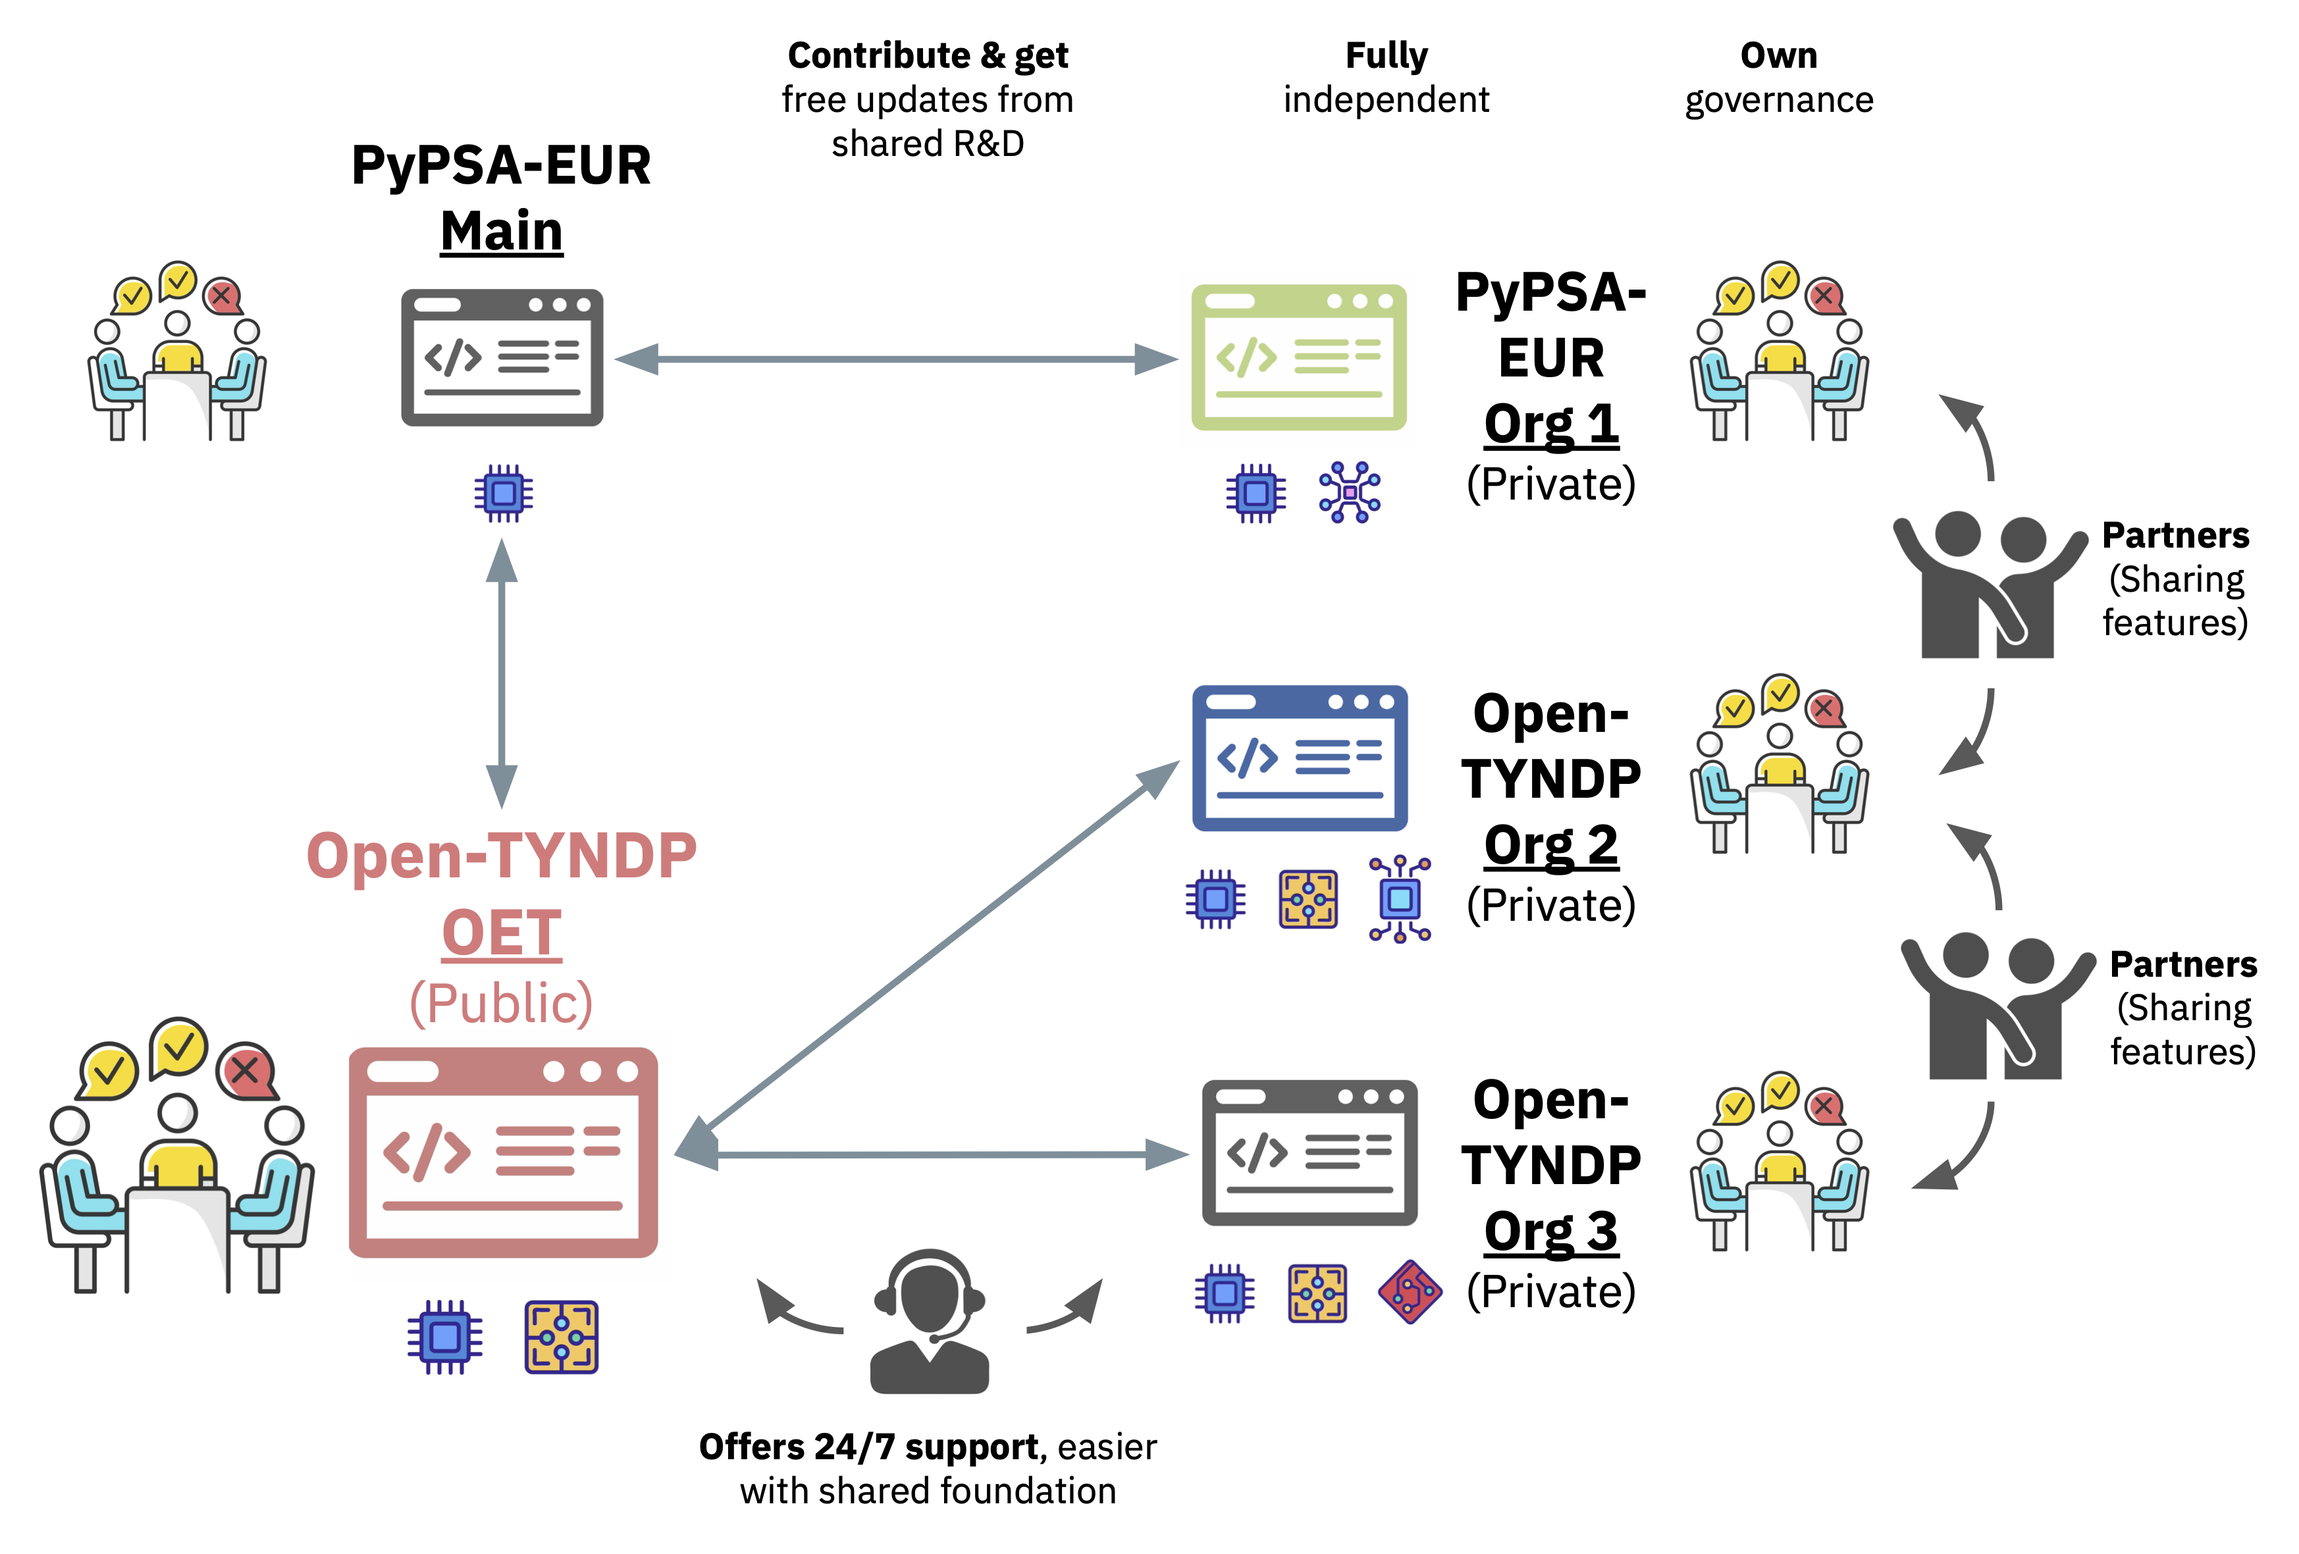
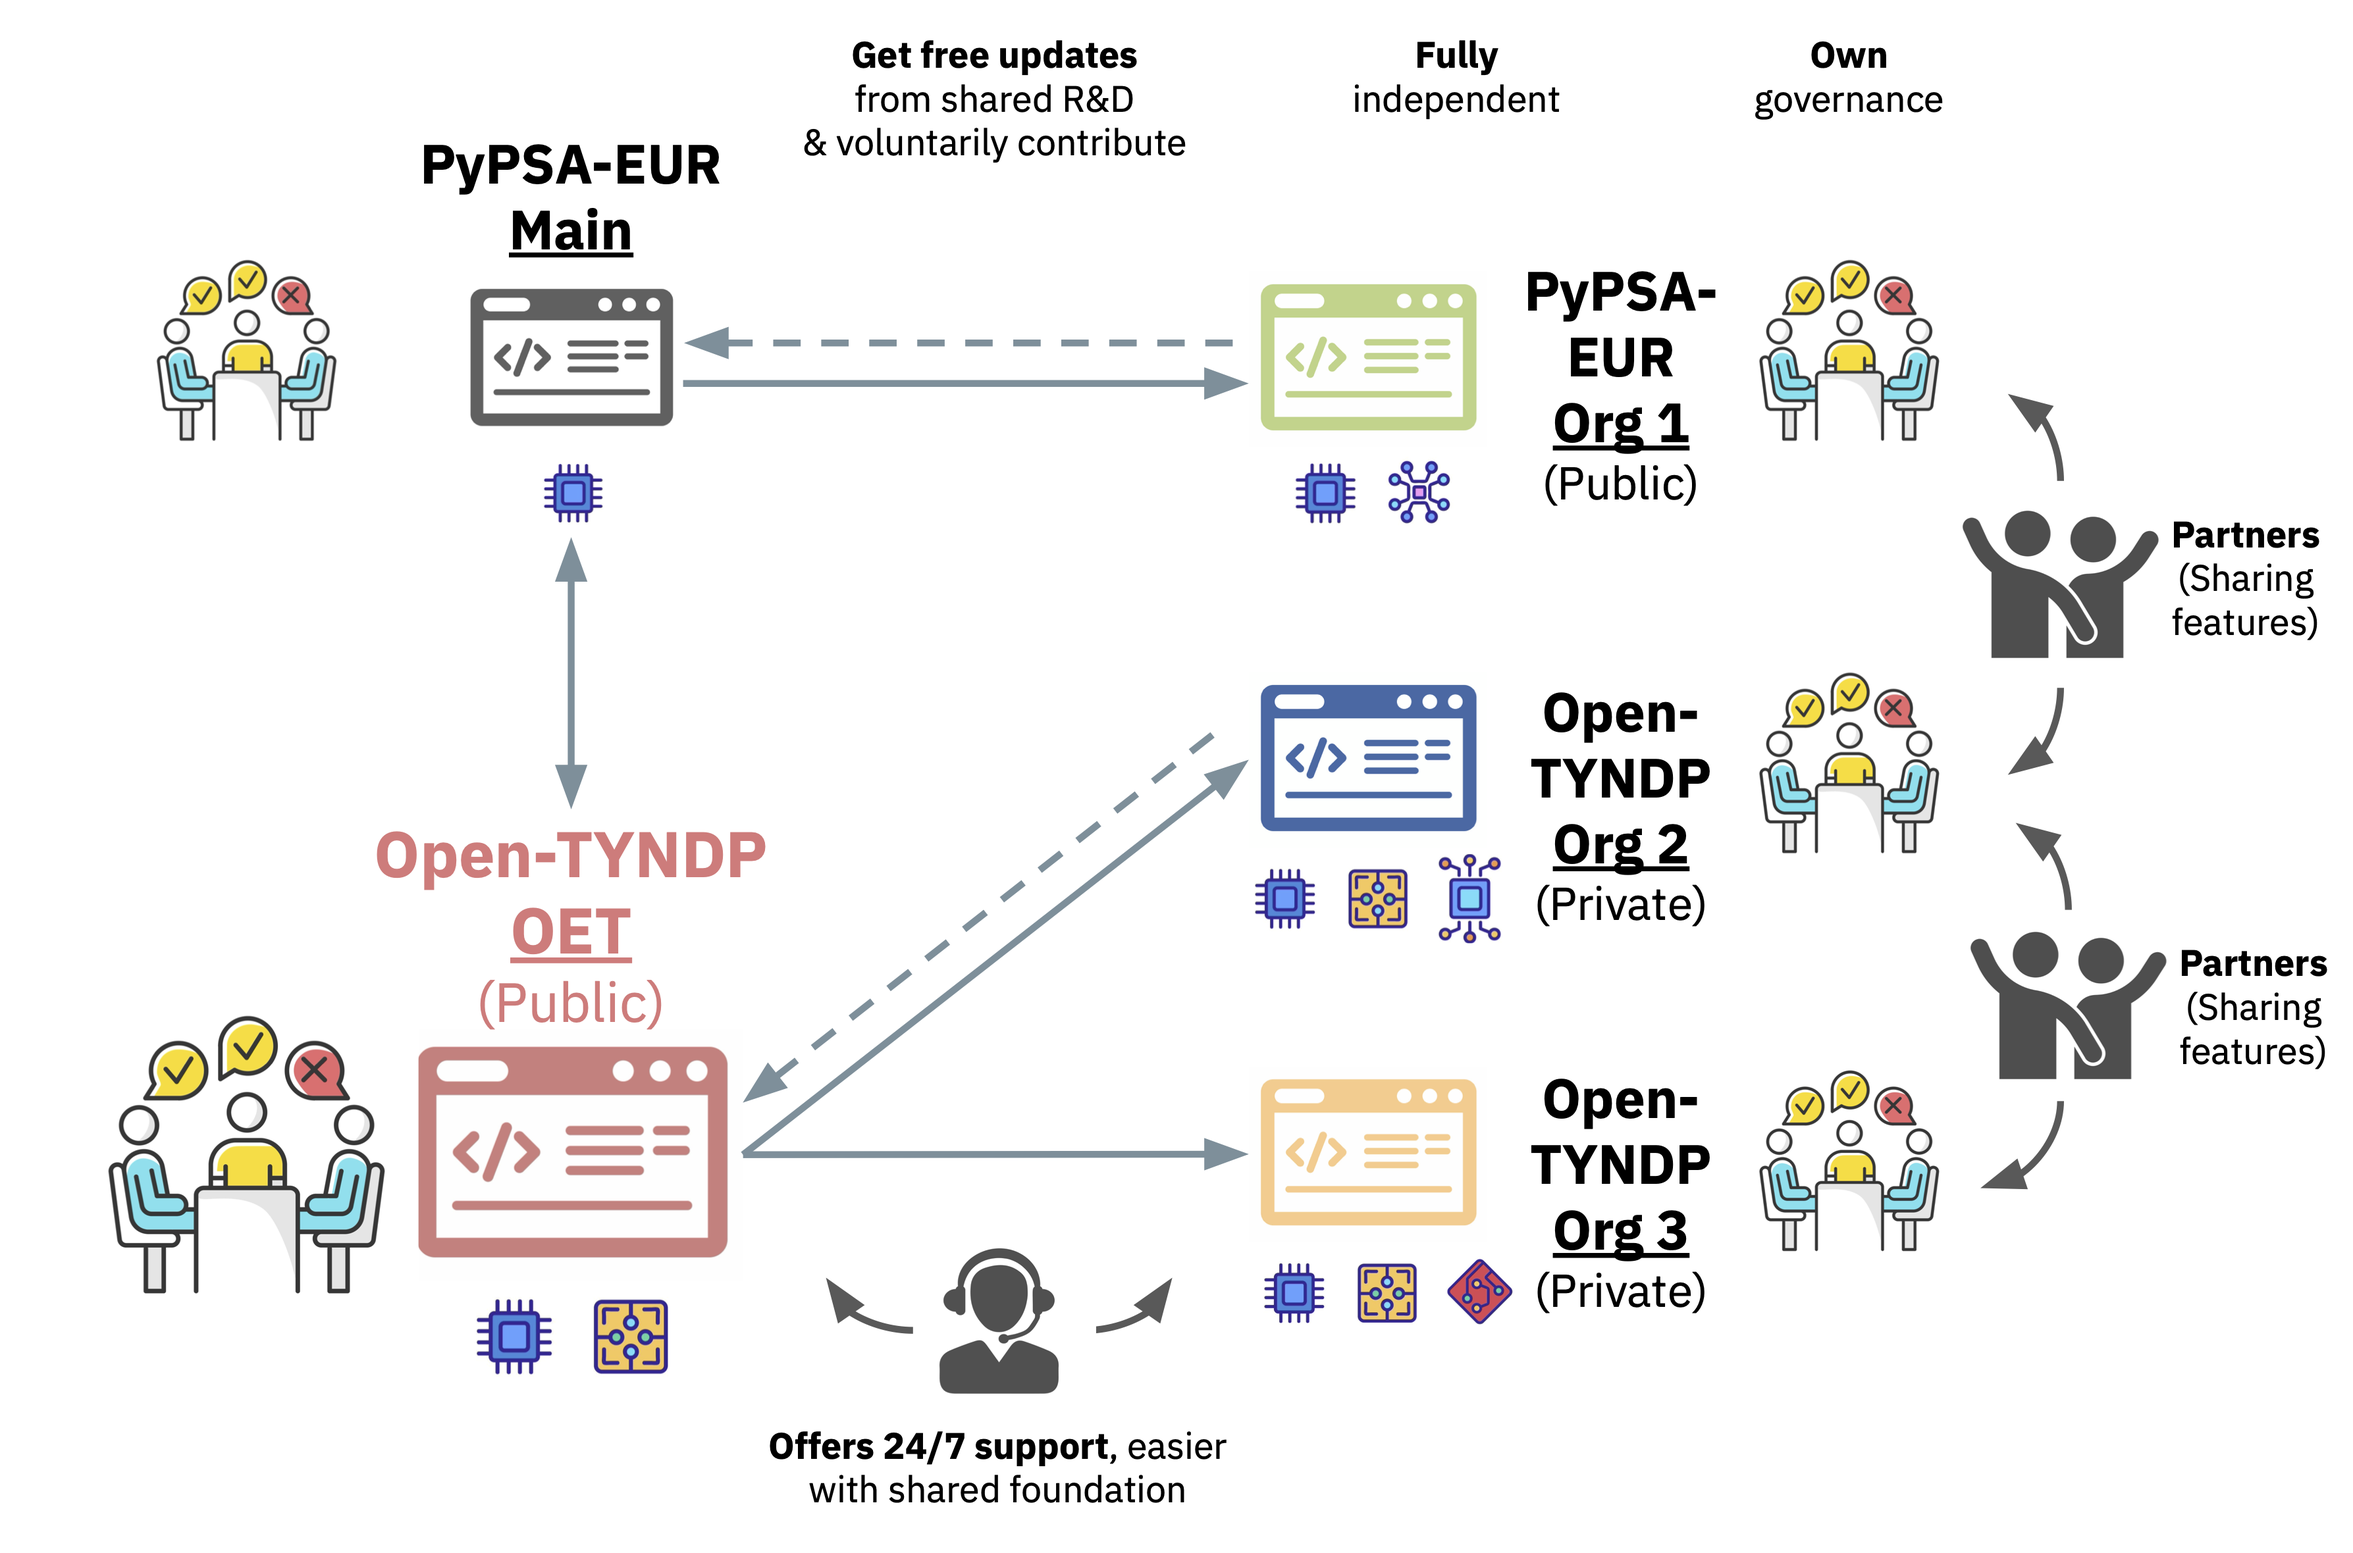
doc: update open-source ecosystem explainer figure and text (#277)

diff --git a/doc/index.rst b/doc/index.rst
@@ -66,9 +66,9 @@ The Open-TYNDP repository builds on the open-source ecosystem of `PyPSA <https:/
     :align: center
     :alt: Open-Source Ecosystem
 
-Within this ecosystem, independent organisations can develop their own private repositories using the publicly available Open-TYNDP and PyPSA-Eur codebases. This shared foundation ensures interoperability and creates opportunities for partnership through sharing and co-developing features. By using a soft-fork strategy, each private repository can contribute to and benefit from the shared research and development environment. The shared foundation also enables organisations to request support and feature development from other actors.
+Within this ecosystem, independent organisations can develop their own private repositories using the publicly available Open-TYNDP and PyPSA-Eur codebases. This shared foundation ensures interoperability and creates opportunities for partnership through sharing and co-developing features. By using a soft-fork strategy, each private repository can benefit from the shared research and development environment and voluntarily contribute features. The shared foundation also enables organisations to request support and feature development from other actors.
 
-Each organisation in this open-source ecosystem remains fully independent of the shared foundation, maintaining its own governance structure and decision-making processes regarding its codebase. Organisations are also free to keep parts of their code private.
+Each organisation in this open-source ecosystem remains fully independent of the shared foundation, maintaining its own governance structure and decision-making processes regarding its codebase. Organisations are also free to keep parts of their code and sensitive data completely private.
 
 |
 
